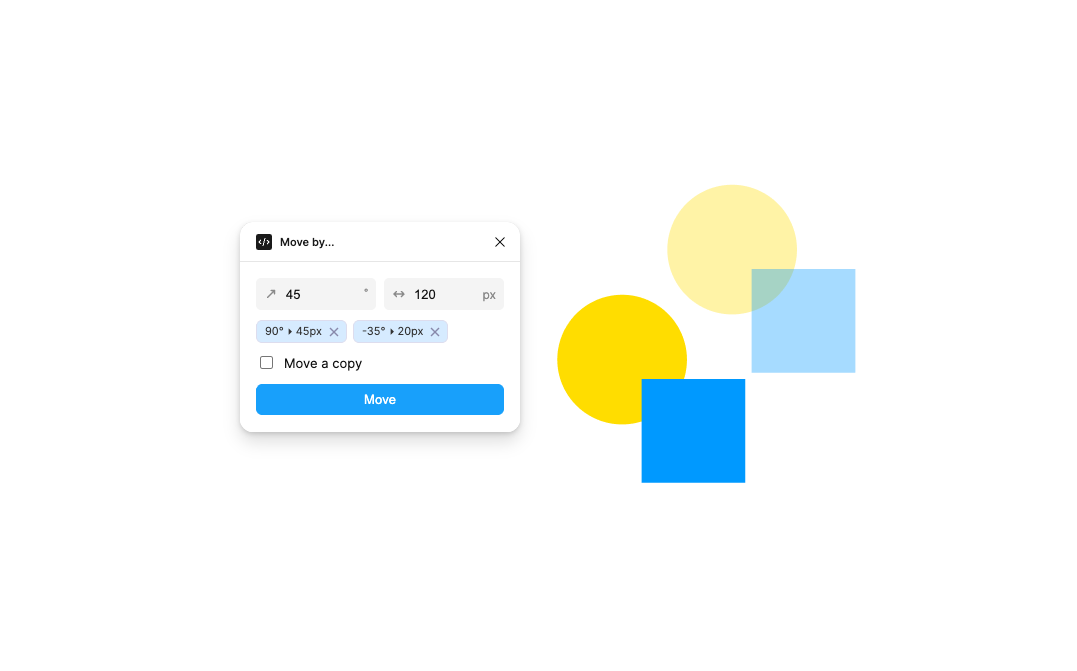
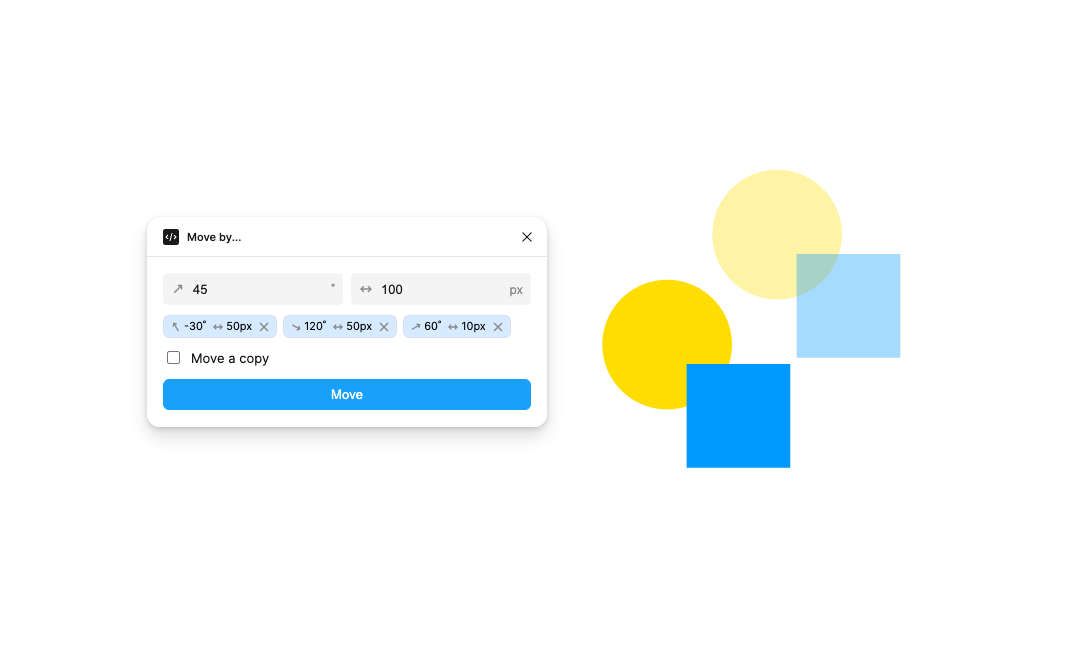
Upd

diff --git a/ui.html b/ui.html
@@ -113,14 +113,32 @@
       .pill button {
         border: 0;
         background: transparent;
-        color: inherit;
         cursor: pointer;
         font: inherit;
         line-height: 1.4;
       }
 
       .pill-shortcut {
-        padding: 3px 3px 3px 8px;
+        display: inline-flex;
+        align-items: center;
+        gap: 6px;
+        padding: 3px 3px 3px 6px;
+      }
+
+      .pill-part {
+        display: inline-flex;
+        align-items: center;
+        gap: 2px;
+      }
+
+      .pill-icon {
+        display: inline-flex;
+        color: #8a8a8a;
+      }
+
+      .pill-icon svg {
+        width: 12px;
+        height: 12px;
       }
 
       .pill:hover {
@@ -141,13 +159,10 @@
         justify-content: center;
         align-self: stretch;
         padding: 0 6px 0 3px;
+        color: #8a8a8a;
       }
 
-      .pill .pill-remove {
-        color: #88a;
-      }
-
-      .pill .pill-remove:hover {
+      .pill-remove:hover {
         color: #111;
       }
 
@@ -196,6 +211,12 @@
       button.primary:hover {
         background: #0893f0;
       }
+
+      button.primary:disabled {
+        background: #bbb;
+        cursor: not-allowed;
+        opacity: 0.7;
+      }
     </style>
   </head>
 
@@ -239,6 +260,7 @@
       const angleInput = document.getElementById('angle');
       const distanceInput = document.getElementById('distance');
       const moveCopyInput = document.getElementById('moveCopy');
+      const moveButton = document.getElementById('move');
       const angleIcon = document.getElementById('angle-icon');
       const historyEl = document.getElementById('history');
       let currentHistory = [];
@@ -286,7 +308,24 @@
           pill.className = 'pill';
           shortcutButton.className = 'pill-shortcut';
           shortcutButton.type = 'button';
-          shortcutButton.textContent = `${angle}° ▸ ${distance}px`;
+          shortcutButton.innerHTML = `
+            <span class="pill-part">
+              <span class="pill-icon">
+                <svg width="14" height="14" viewBox="0 0 14 14" fill="none" xmlns="http://www.w3.org/2000/svg" style="transform: rotate(${angle}deg);">
+                  <path d="M7 12V2M4.5 4.5L7 2L9.5 4.5" stroke="currentColor" stroke-width="1.5" stroke-linecap="round" stroke-linejoin="round"/>
+                </svg>
+              </span>
+              <span>${angle}˚</span>
+            </span>
+            <span class="pill-part">
+              <span class="pill-icon">
+                <svg width="14" height="14" viewBox="0 0 14 14" fill="none" xmlns="http://www.w3.org/2000/svg">
+                  <path d="M2 7H12M2 7L4.5 4.5M2 7L4.5 9.5M12 7L9.5 4.5M12 7L9.5 9.5" stroke="currentColor" stroke-width="1.5" stroke-linecap="round" stroke-linejoin="round"/>
+                </svg>
+              </span>
+              <span>${distance}px</span>
+            </span>
+          `;
           shortcutButton.addEventListener('click', () => {
             angleInput.value = angle;
             distanceInput.value = distance;
@@ -398,10 +437,16 @@
       window.onmessage = (event) => {
         const msg = event.data.pluginMessage;
 
+        if (msg.type === 'selection-state') {
+          moveButton.disabled = !msg.hasSelection;
+          return;
+        }
+
         if (msg.type === 'init') {
           angleInput.value = msg.angle;
           distanceInput.value = msg.distance;
           moveCopyInput.checked = msg.moveCopy;
+          moveButton.disabled = !msg.hasSelection;
 
           updateAngleIcon(msg.angle);
 

diff --git a/code.js b/code.js
@@ -3,7 +3,7 @@ const DEFAULT_DISTANCE = 10;
 const DEFAULT_MOVE_COPY = false;
 
 const MAX_HISTORY = 5;
-const UI_WIDTH = 280;
+const UI_WIDTH = 400;
 const INITIAL_UI_HEIGHT = 148;
 const PREVIEW_OPACITY = 0.35;
 
@@ -116,13 +116,18 @@ async function init() {
       typeof savedMoveCopy === 'boolean'
         ? savedMoveCopy
         : DEFAULT_MOVE_COPY,
-    history
+    history,
+    hasSelection: figma.currentPage.selection.length > 0
   });
 }
 
 init();
 
 figma.on('selectionchange', () => {
+  figma.ui.postMessage({
+    type: 'selection-state',
+    hasSelection: figma.currentPage.selection.length > 0
+  });
   renderPreview(lastPreview.angle, lastPreview.distance);
 });
 